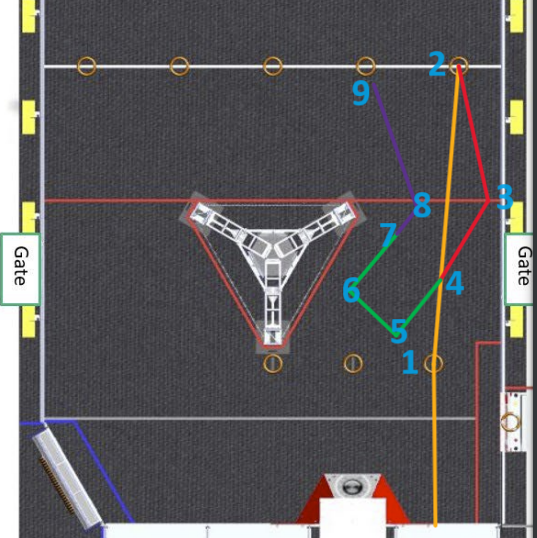
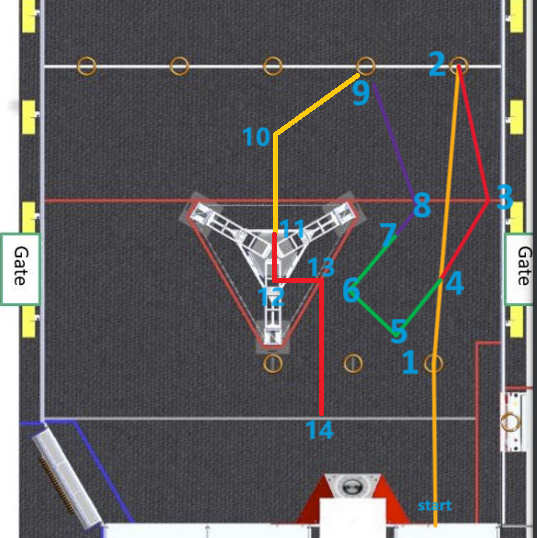
continued on the auto stage tempalte
now the movements in auto stage are good

diff --git a/src/main/java/frc/robot/AutoStagePrograms/AutonomousTemplateRedDS3.java b/src/main/java/frc/robot/AutoStagePrograms/AutonomousTemplateRedDS3.java
@@ -19,8 +19,13 @@ public class AutonomousTemplateRedDS3 implements AutoStageProgram {
             position5 = new Vector2D(new double[]{2.2, 3.5}),
             position6 = new Vector2D(new double[]{1.65, 4.3}),
             position7 = new Vector2D(new double[] {2.2, 5.1}),
-            position8 = new Vector2D(new double[] {2.2+0.55*2, 5.1+0.8*2}),
-            position9 = new Vector2D(new double[] {1.68, 9})
+            position8 = new Vector2D(new double[] {2.2+0.55*2.2, 5.1+0.8*2.2}),
+            position9 = new Vector2D(new double[] {1.68, 9}),
+            position10 = new Vector2D(new double[] {0.1, 8.2}),
+            position11 = new Vector2D(new double[] {0.2, 5.2}),
+            position12 = new Vector2D(new double[] {0.2, 4.6}),
+            position13 = new Vector2D(new double[] {0.7, 4.6}),
+            position14 = new Vector2D(new double[] {0.7, 2})
     ;
     @Override
     public List<SequentialCommandSegment> getCommandSegments(RobotCore robotCore) {
@@ -36,7 +41,7 @@ public class AutonomousTemplateRedDS3 implements AutoStageProgram {
                 new Rotation2D(Math.toRadians(135))
         ));
 
-        /* 2 note on the middle line */
+        /* 2 the rightmost note on the middle line */
         commandSegments.add(commandFactory.moveFromPointToPointAndStop(
                 position1,
                 position2,
@@ -72,6 +77,22 @@ public class AutonomousTemplateRedDS3 implements AutoStageProgram {
                 position7,
                 position8,
                 position9
+        ));
+
+        /* drive back to the front of the stage assemble */
+        commandSegments.add(commandFactory.moveFromPointToMidPointToPoint(
+                position9,
+                position10,
+                position11
+        ));
+
+        /* drive through the stage assemble */
+        commandSegments.add(new SequentialCommandSegment(
+                ()->true,
+                () -> new BezierCurve(position11, position12, position13, position14),
+                ()->{}, ()->{}, ()->{},
+                robotCore.chassisModule::isCurrentTranslationalTaskFinished,
+                () -> new Rotation2D(Math.toRadians(180)), () -> new Rotation2D(Math.toRadians(180))
         ));
 
         return commandSegments;

diff --git a/src/main/java/frc/robot/Services/AutoProgramRunner.java b/src/main/java/frc/robot/Services/AutoProgramRunner.java
@@ -52,6 +52,7 @@ public class AutoProgramRunner extends RobotServiceBase {
     @Override
     public void periodic() {
         updateConfigs();
+        robotChassis.setOrientationMode(SwerveBasedChassis.OrientationMode.FIELD, this);
 
 
         if (currentPathSchedule != null) {
